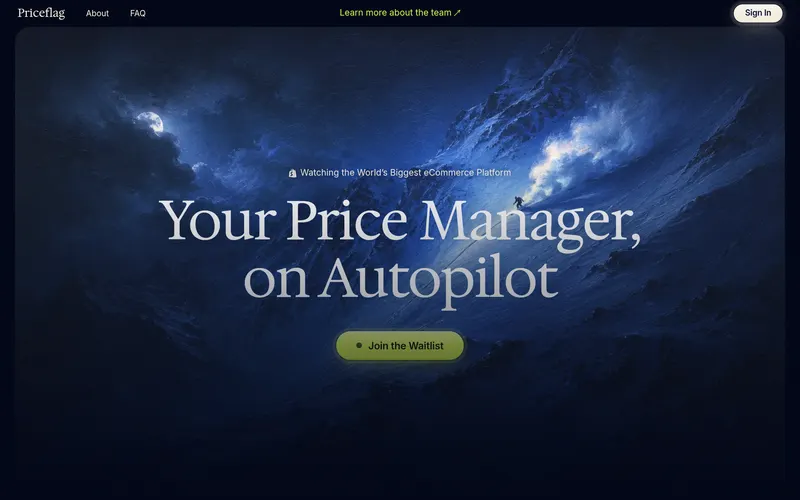
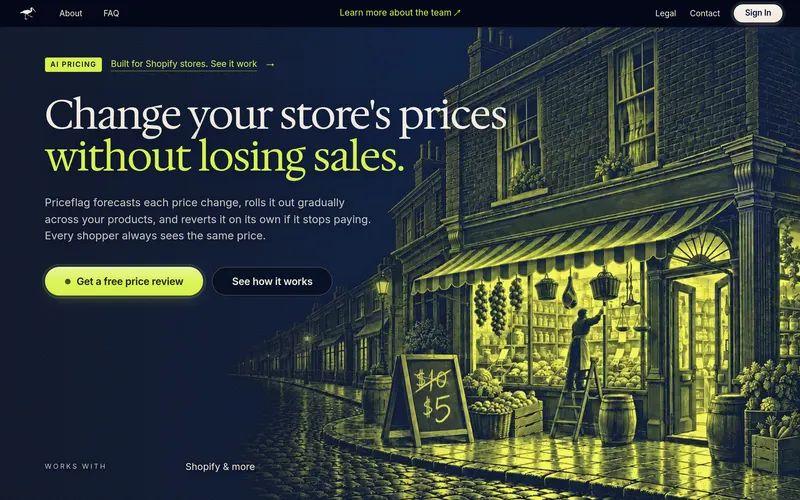
Refresh Priceflag preview, drop Tarsole and Truffle, hide Widget Factory
Widget Factory stays in constants behind a hidden flag until onboarding
details are ready.

diff --git a/src/utils/constants.ts b/src/utils/constants.ts
@@ -7,6 +7,8 @@ export type WorkItem = {
   url: string;
   /** ms to wait before screenshotting, for sites with an entrance animation */
   previewWaitMs?: number;
+  /** keep the entry here but leave it off the site (and out of previews) */
+  hidden?: boolean;
 };
 
 export type Project = {
@@ -48,7 +50,7 @@ export const SOCIALS: readonly Social[] = [
   { label: "Email", href: "mailto:nithin.alaska@gmail.com" },
 ];
 
-export const WORK_ITEMS: readonly WorkItem[] = [
+const ALL_WORK_ITEMS: readonly WorkItem[] = [
   {
     company: "Idler / Widget Factory",
     slug: "idler-widget-factory",
@@ -57,6 +59,8 @@ export const WORK_ITEMS: readonly WorkItem[] = [
     about:
       "Stress-testing frontier AI agents across RL environments & coding benchmarks",
     url: "https://idler.ai/",
+    // off the site until onboarding is done and the details are updated
+    hidden: true,
   },
   {
     company: "UC Davis GSM",
@@ -105,6 +109,10 @@ export const WORK_ITEMS: readonly WorkItem[] = [
   },
 ];
 
+export const WORK_ITEMS: readonly WorkItem[] = ALL_WORK_ITEMS.filter(
+  (item) => !item.hidden,
+);
+
 export const PROJECTS: readonly Project[] = [
   {
     name: "Priceflag",
@@ -113,14 +121,6 @@ export const PROJECTS: readonly Project[] = [
     date: "Present",
     about: "Simulate & safely roll out price changes for eCommerce platforms",
     url: "https://priceflag.org/",
-  },
-  {
-    name: "Tarsole (fka Therapeuo)",
-    slug: "therapeuo",
-    role: "Co-Founder",
-    about: "Building the world's first mass-market smart insole",
-    url: "https://therapeuo.xyz/",
-    previewWaitMs: 4000,
   },
   {
     name: "Jet-Set Teen",
@@ -142,13 +142,6 @@ export const PROJECTS: readonly Project[] = [
     role: "Co-Founder",
     about: "Autonomous farming system for efficient micro-agriculture",
     url: "https://youtu.be/HTlI9NxZe-g?si=V1cE4Rpiqy2UMVoT",
-  },
-  {
-    name: "Truffle",
-    slug: "truffle",
-    role: "Creator",
-    about: "A natural language optimizer for operations research problems",
-    url: "https://github.com/nithinaru/Truffle",
   },
 ];
 
